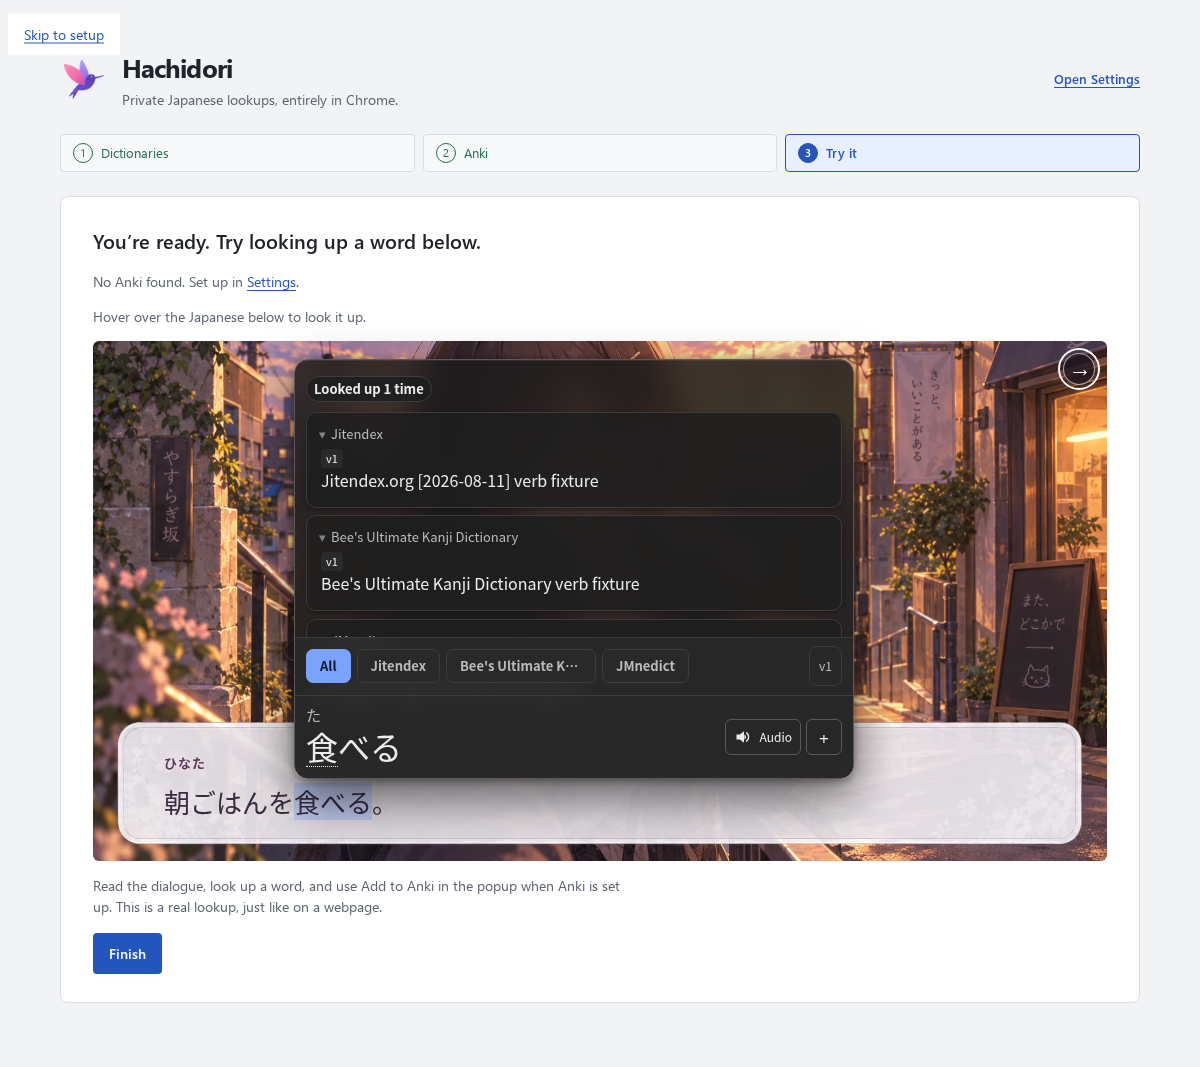
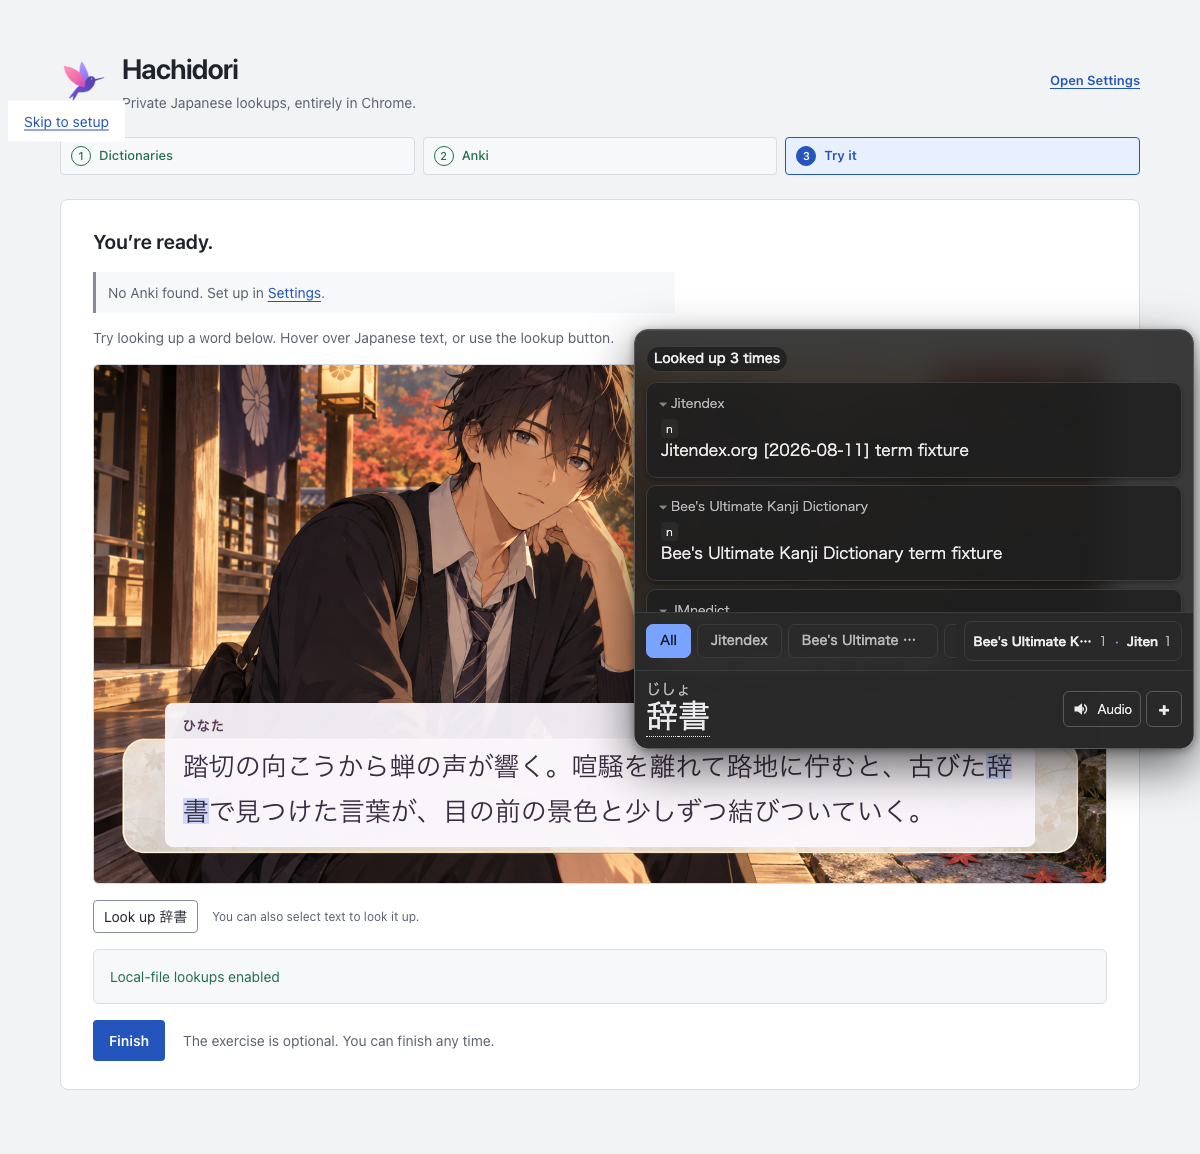
docs: show scene cycling with integrated startup and Settings

diff --git a/docs/architecture.md b/docs/architecture.md
@@ -359,11 +359,16 @@ directly; a fragment created before it attaches still works after reload.
 
 The shared `visual-novel.js` picks one of six local images at random when each
 scene is created. A small **Next background** arrow cycles through them and
-wraps to the first. It changes only the background and dialogue text color,
+wraps to the first. It changes only the scene background and dialogue colors,
 keeping the passage and Design popup mounted; no selection is stored. Images
 load as selected. The startup arrow can retain keyboard focus while the reader
 looks up the dialogue; ordinary page controls still pause hover. Pointer clicks
 outside the real popup retain its usual dismissal behavior.
+
+The startup passage's opaque surface follows the light or dark scene palette
+so its text stays readable on every background.
+
+![The production practice scene with dark dialogue and its next-background arrow](assets/startup-carousel-dark.png)
 
 Before inviting a lookup, the page probes **辞書** with the reader's selection
 payload: the word's length and a full matched-text result. If it misses, the
